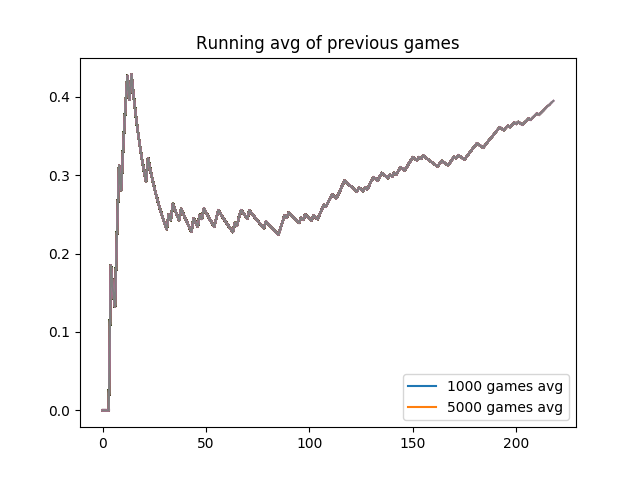
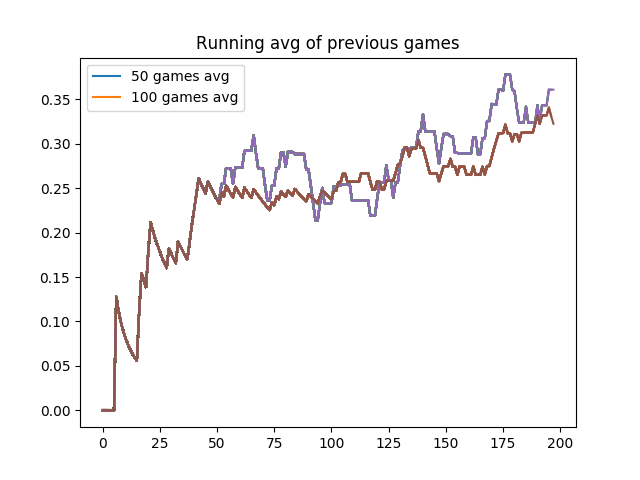
training on fourrooms

diff --git a/main_curiosity.py b/main_curiosity.py
@@ -27,9 +27,9 @@ if __name__ == '__main__':
     global_ep = mp.Value('i', 0)
     #mp.set_start_method('spawn') # faster but only linux/macos
     # env_id = 'PongNoFrameskip-v4'
-    env_id = 'MiniWorld-Hallway-v0'
-    # env_id = 'MiniWorld-FourRooms-v0'
-    n_threads = 4
+    # env_id = 'MiniWorld-Hallway-v0'
+    env_id = 'MiniWorld-FourRooms-v0'
+    n_threads = 12
     n_actions = 3
     input_shape = [4, 42, 42]
     env = ParallelEnv(env_id=env_id, num_threads=n_threads, n_actions=n_actions, global_idx=global_ep, input_shape=input_shape, icm=True)

diff --git a/curiosity/worker.py b/curiosity/worker.py
@@ -90,6 +90,6 @@ def worker(name, input_shape, n_actions, global_agent, optimizer, env_id, n_thre
                     .format(episode, name, n_threads, total_timestep/1e6, score, avg_score, avg_score_5000))
 
         # plot learning curve, only for first agent
-        if name == "1":
+        if name == "1" and (total_timestep % 1e5 == 0):
             x = [z for z in range(episode)]
             plot_learning_curve(x, scores, "A3C-ICM_" + env_id + ".png")

diff --git a/utils.py b/utils.py
@@ -1,13 +1,15 @@
 import os
 from cProfile import label
+from turtle import color
 import numpy as np
 import matplotlib.pyplot as plt
 
 first_plot = True
+n_games_to_avg = [50, 100]
+
 def plot_learning_curve(x, scores, figure_file):
     global first_plot
-    global kk
-    n_games_to_avg = [1000, 5000]
+    global n_games_to_avg
     for n_games in n_games_to_avg:
         running_avg = np.zeros(len(scores))
         for i in range(len(running_avg)):
